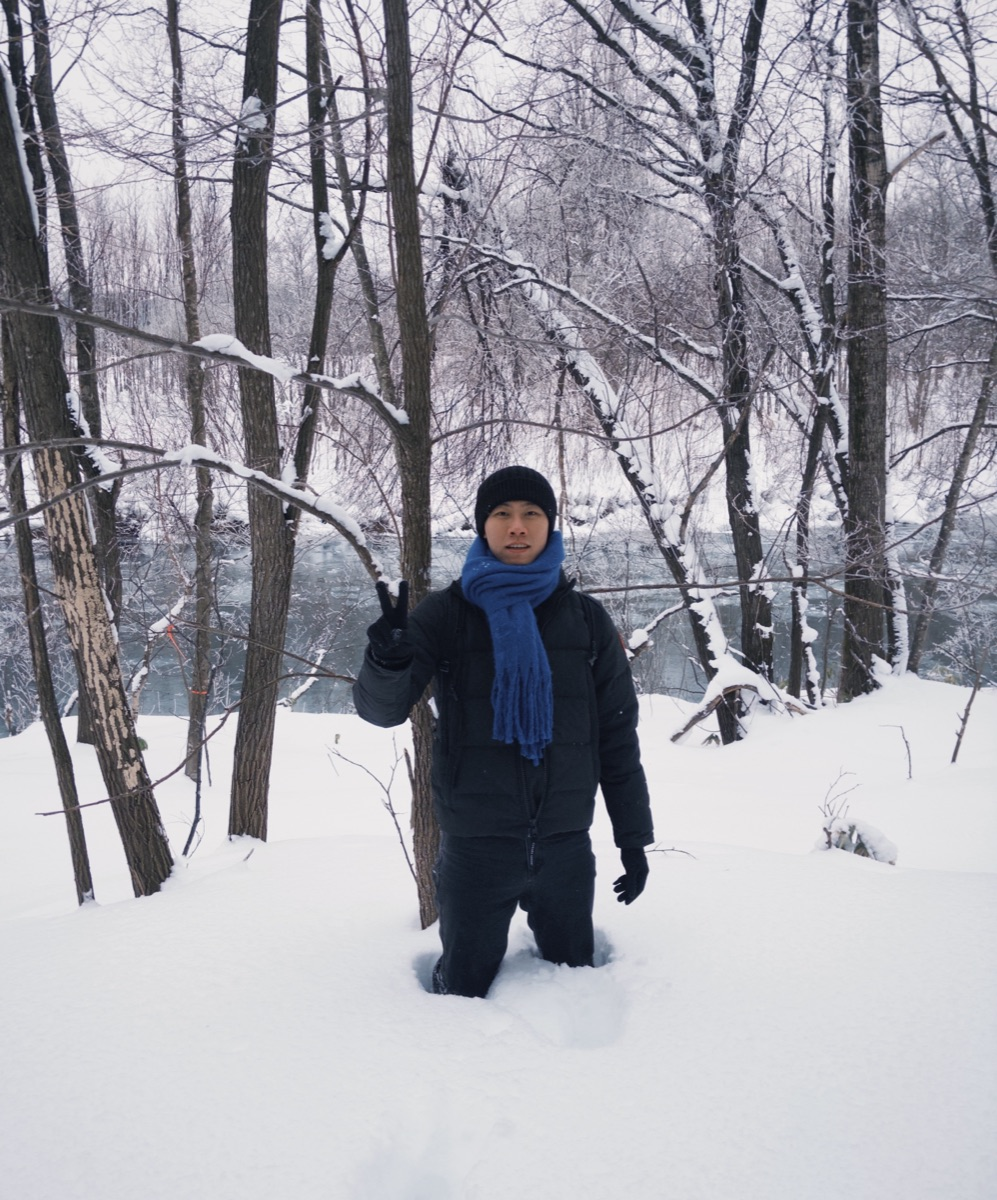
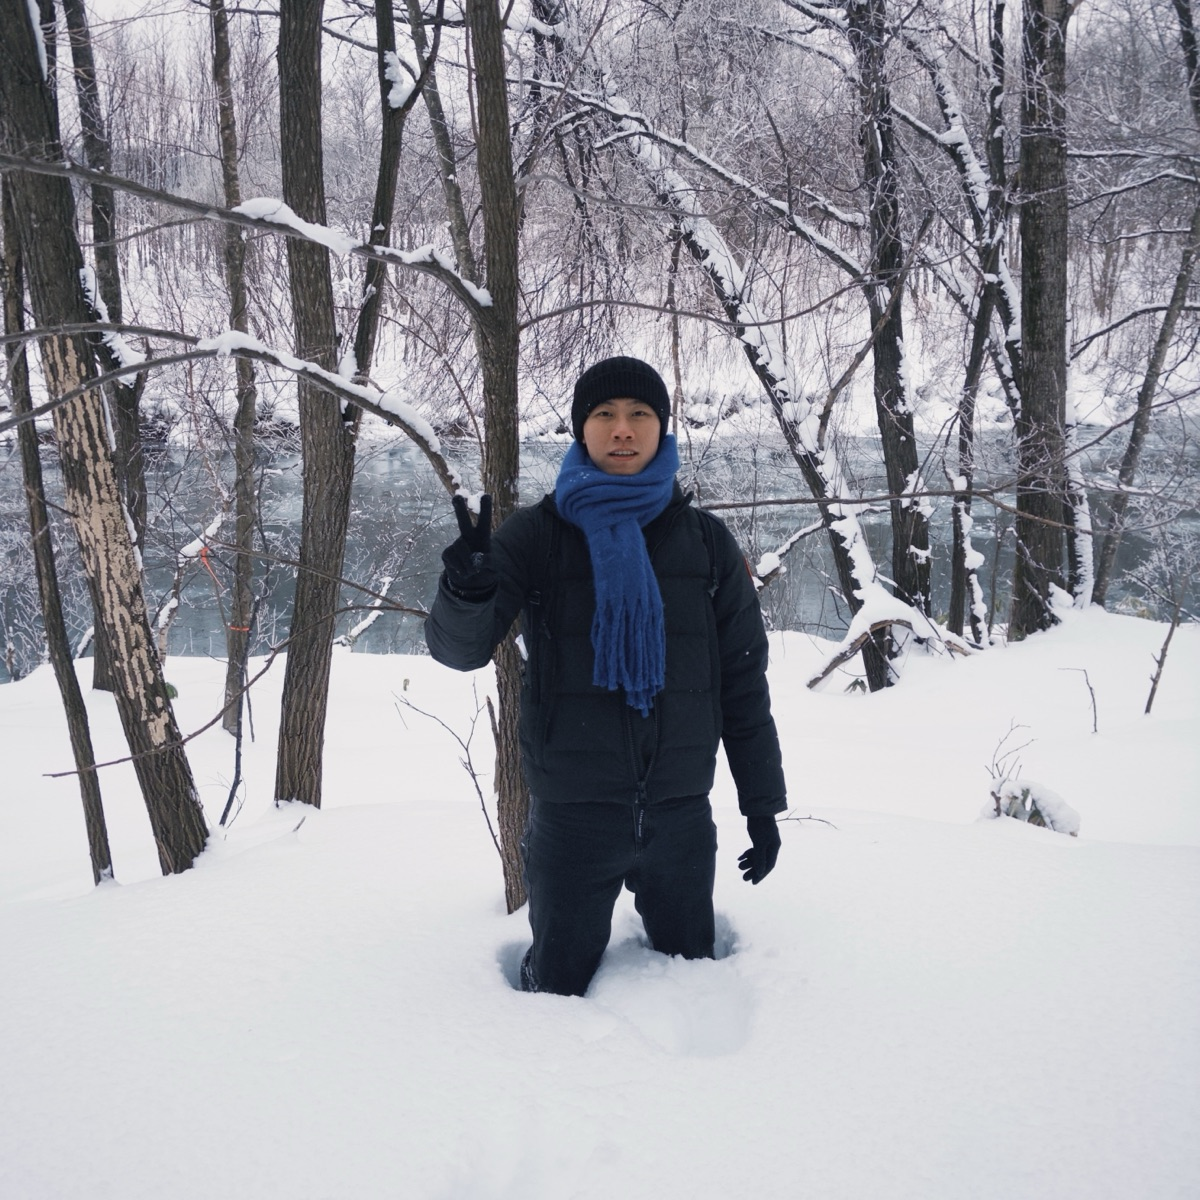
redesign: switch to Jekyll academic homepage template

diff --git a/_includes/widgets/profile_card.html b/_includes/widgets/profile_card.html
@@ -6,25 +6,26 @@
                     <div class="col">
                         {% if site.data.profile.portrait_url %}
                         <!-- When the screen is wider than md, float the portrait on the right -->
-                        <div class="figure float-right ml-4 mb-4 d-none d-md-block">
-                            <img 
-                                src="{{ site.data.profile.portrait_url | relative_url }}" 
-                                class="figure-img img-fluid img-thumbnail" 
-                                style="height: 200px;"
-                                data-toggle="tooltip" 
-                                data-placement="top" 
+                        <div class="figure float-right ml-4 mb-4 d-none d-md-block"
+                            style="width: 220px; overflow: hidden;">
+                            <img src="{{ site.data.profile.portrait_url | relative_url }}"
+                                class="figure-img img-thumbnail"
+                                style="width: 100%; height: 100%; object-fit: cover; object-position: center 20%;"
+                                data-toggle="tooltip" data-placement="top"
                                 title="{{ site.data.profile.portrait_caption }}">
                         </div>
                         {% endif %}
 
                         <div class="d-flex">
-                            <div class="h1 font-weight-normal">
-                                {{ site.data.profile.primary_name }} <small>{{ site.data.profile.secondary_name }}</small>
+                            <div class="h3 font-weight-normal">
+                                {{ site.data.profile.primary_name }} <small>{{ site.data.profile.secondary_name
+                                    }}</small>
                             </div>
                             {% if site.data.profile.portrait_url %}
                             <div class="ml-auto d-md-none">
                                 <a target="_blank" href="{{ site.data.profile.portrait_url | relative_url }}">
-                                    <img src="{{ site.data.profile.portrait_url | relative_url }}" class="rounded-circle" style="height: 48px;" alt="Portrait">
+                                    <img src="{{ site.data.profile.portrait_url | relative_url }}"
+                                        class="rounded-circle" style="height: 48px;" alt="Portrait">
                                 </a>
                             </div>
                             {% endif %}
@@ -32,40 +33,45 @@
                         <div class="text-profile-position">
                             {% for position in site.data.profile.positions %}
                             {% if position.logo -%}
-                            <img src="{{ position.logo | relative_url }}" alt="Logo" class="inline-badge"/>
+                            <img src="{{ position.logo | relative_url }}" alt="Logo" class="inline-badge" />
                             {%- endif %}
-                            {{ position.name }}<br/>
+                            {{ position.name }}<br />
                             {% endfor %}
                         </div>
-                        <div class="text-profile-bio mt-3" {% if site.data.profile.short_bio_text_justify %}style="text-align: justify;"{% endif %}>
+                        <div class="text-profile-bio mt-3" {% if site.data.profile.short_bio_text_justify
+                            %}style="text-align: justify;" {% endif %}>
                             {{ site.data.profile.short_bio }}
                         </div>
                         {% if site.data.profile.cv_link %}
-                            <a target="_blank" href="{{ site.data.profile.cv_link | relative_url }}"><i class="fas fa-file-alt"></i> Curriculum Vitae</a> <br/>
+                        <a target="_blank" href="{{ site.data.profile.cv_link | relative_url }}"><i
+                                class="fas fa-file-alt"></i> Curriculum Vitae</a> <br />
                         {% endif %}
                     </div>
-        
+
                 </div>
                 <hr />
                 <div class="row">
                     <div class="col">
                         <a class="pr-3" href="mailto:{{ site.data.profile.email | encode_email }}">
-                            <i class="fas fa-at"></i> <span class="email-text">{{ site.data.profile.email | replace: "@", "(at)" }}</span>
+                            <i class="fas fa-at"></i> <span class="email-text">{{ site.data.profile.email | replace:
+                                "@", "(at)" }}</span>
                         </a>
 
                         {% if site.data.profile.gscholar %}
                         {%- if site.data.profile.gscholar contains 'scholar.google' -%}
                         {%- assign gscholar_url = site.data.profile.gscholar -%}
                         {%- else -%}
-                        {%- assign gscholar_url = 'https://scholar.google.com/citations?user=' | append: site.data.profile.gscholar -%}
+                        {%- assign gscholar_url = 'https://scholar.google.com/citations?user=' | append:
+                        site.data.profile.gscholar -%}
                         {%- endif -%}
                         <a class="pr-3 no-break" target="_blank" href="{{ gscholar_url }}">
                             <i class="fab fa-google-scholar"></i> Google Scholar
                         </a>
                         {% endif %}
-                        
+
                         {% if site.data.profile.github %}
-                        <a class="pr-3 no-break" target="_blank" href="https://github.com/{{ site.data.profile.github }}">
+                        <a class="pr-3 no-break" target="_blank"
+                            href="https://github.com/{{ site.data.profile.github }}">
                             <i class="fab fa-github"></i> GitHub
                         </a>
                         {% endif %}
@@ -77,13 +83,15 @@
                         {% endif %}
 
                         {% if site.data.profile.twitter %}
-                        <a class="pr-3 no-break" target="_blank" href="https://twitter.com/{{ site.data.profile.twitter }}">
+                        <a class="pr-3 no-break" target="_blank"
+                            href="https://twitter.com/{{ site.data.profile.twitter }}">
                             <i class="fab fa-twitter"></i> Twitter
                         </a>
                         {% endif %}
 
                         {% if site.data.profile.linkedin %}
-                        <a class="pr-3 no-break" target="_blank" href="https://www.linkedin.com/in/{{ site.data.profile.linkedin }}">
+                        <a class="pr-3 no-break" target="_blank"
+                            href="https://www.linkedin.com/in/{{ site.data.profile.linkedin }}">
                             <i class="fab fa-linkedin"></i> LinkedIn
                         </a>
                         {% endif %}
@@ -96,7 +104,7 @@
                     </div>
                 </div>
             </div>
-        </div>        
+        </div>
     </div>
 </div>
 

diff --git a/index.html b/index.html
@@ -3,37 +3,6 @@ layout: default
 title : Homepage
 navbar_title: Home
 ---
-
-<div class="row">
-    <div class="col-lg-3 col-md-4">
-        {% include widgets/profile_card_mini.html %}
-    </div>
-    <div class="col-lg-9 col-md-8">
-
-        {% include widgets/profile_card_bio_only.html %}
-
-        <!-- Debugging widgets -->
-        {% include widgets/debug_repo_name.html %}
-        {% include widgets/debug_url.html %}
-
-        {% if site.data.display.homepage.show_experience %}
-            {% include widgets/experience_card.html %}
-        {% endif %}
-
-        {% if site.data.display.homepage.show_news %}
-        {% assign count_news = site.news | size %}
-        {% if count_news > 0 %}
-        {% include widgets/news_card.html limit=site.data.display.homepage.num_news %}
-        {% endif %}
-        {% endif %}
-
-        {% if site.data.display.homepage.show_selected_publications %}
-        {% assign pubs = site.publications | sort: "date" | reverse | where: "selected", true %}
-        {%
-        include widgets/publication_card.html
-        publications=pubs
-        title='<i class="fas fa-star"></i> Selected Publications'
-        %}
-        {% endif %}
-    </div>
-</div>
+{% include widgets/profile_card.html %}
+{% include widgets/custom_work_card.html %}
+{% include widgets/custom_education_card.html %}

diff --git a/_includes/widgets/custom_education_card.html b/_includes/widgets/custom_education_card.html
@@ -1,0 +1,28 @@
+<div class="row mt-3">
+    <div class="col">
+        <div class="card border-0 shadow-sm bg-white">
+            <div class="card-body p-4">
+                <h6>Study Journey</h6>
+                {% for item in site.data.education %}
+                <div class="d-flex align-items-start {% unless forloop.last %}border-bottom border-gray{% endunless %} py-3">
+                    <img
+                        src="{{ item.logo | relative_url }}"
+                        alt="{{ item.name }}"
+                        style="width: 48px; height: 48px; object-fit: contain; flex-shrink: 0;"
+                        class="mr-3 mt-1">
+                    <div style="flex: 1; min-width: 0;">
+                        <div class="d-flex justify-content-between align-items-baseline">
+                            <strong>{{ item.name }}</strong>
+                            <span class="text-muted small no-break ml-3"><em>{{ item.date }}</em></span>
+                        </div>
+                        <div class="small text-muted">{{ item.position }}</div>
+                        {% if item.description %}
+                        <div class="small mt-1">{{ item.description }}</div>
+                        {% endif %}
+                    </div>
+                </div>
+                {% endfor %}
+            </div>
+        </div>
+    </div>
+</div>

diff --git a/_includes/widgets/custom_work_card.html b/_includes/widgets/custom_work_card.html
@@ -1,0 +1,28 @@
+<div class="row mt-3">
+    <div class="col">
+        <div class="card border-0 shadow-sm bg-white">
+            <div class="card-body p-4">
+                <h6>Work</h6>
+                {% for item in site.data.work %}
+                <div class="d-flex align-items-start {% unless forloop.last %}border-bottom border-gray{% endunless %} py-3">
+                    <img
+                        src="{{ item.logo | relative_url }}"
+                        alt="{{ item.name }}"
+                        style="width: 48px; height: 48px; object-fit: contain; flex-shrink: 0;"
+                        class="mr-3 mt-1">
+                    <div style="flex: 1; min-width: 0;">
+                        <div class="d-flex justify-content-between align-items-baseline">
+                            <strong>{{ item.name }}</strong>
+                            <span class="text-muted small no-break ml-3"><em>{{ item.date }}</em></span>
+                        </div>
+                        <div class="small text-muted">{{ item.position }}</div>
+                        {% if item.description %}
+                        <div class="small mt-1">{{ item.description }}</div>
+                        {% endif %}
+                    </div>
+                </div>
+                {% endfor %}
+            </div>
+        </div>
+    </div>
+</div>

diff --git a/_includes/widgets/profile_card_mini.html b/_includes/widgets/profile_card_mini.html
@@ -6,13 +6,14 @@
                     <div class="col">
                         {% if site.data.profile.portrait_url %}
                         <!-- When the screen is wider than md, float the portrait on the right -->
-                        <div class="figure d-none d-md-block">
-                            <img 
-                                src="{{ site.data.profile.portrait_url | relative_url }}" 
-                                class="figure-img img-fluid" 
-                                data-toggle="tooltip" 
-                                data-placement="top" 
-                                title="{{ site.data.profile.portrait_caption }}">
+                        <div class="figure d-none d-md-block" style="overflow:hidden; aspect-ratio:3/4;">
+                            <img
+                                src="{{ site.data.profile.portrait_url | relative_url }}"
+                                class="figure-img img-fluid"
+                                data-toggle="tooltip"
+                                data-placement="top"
+                                title="{{ site.data.profile.portrait_caption }}"
+                                style="width:100%; height:100%; object-fit:cover; object-position:center 25%;">
                         </div>
                         <div class="mb-3 d-md-none text-center">
                             <img src="{{ site.data.profile.portrait_url | relative_url }}" class="rounded-circle" style="max-width: 50%;" alt="Portrait">

diff --git a/_layouts/default.html b/_layouts/default.html
@@ -10,9 +10,22 @@
     <link rel="stylesheet" href="https://cdnjs.cloudflare.com/ajax/libs/twitter-bootstrap/4.6.0/css/bootstrap.min.css" integrity="sha512-P5MgMn1jBN01asBgU0z60Qk4QxiXo86+wlFahKrsQf37c9cro517WzVSPPV1tDKzhku2iJ2FVgL67wG03SGnNA==" crossorigin="anonymous" />
     <link rel="stylesheet" href="https://cdnjs.cloudflare.com/ajax/libs/font-awesome/6.5.1/css/all.min.css" integrity="sha512-DTOQO9RWCH3ppGqcWaEA1BIZOC6xxalwEsw9c2QQeAIftl+Vegovlnee1c9QX4TctnWMn13TZye+giMm8e2LwA==" crossorigin="anonymous">
     <link rel="stylesheet" href="https://cdnjs.cloudflare.com/ajax/libs/academicons/1.9.1/css/academicons.min.css" integrity="sha512-b1ASx0WHgVFL5ZQhTgiPWX+68KjS38Jk87jg7pe+qC7q9YkEtFq0z7xCglv7qGIs/68d3mAp+StfC8WKC5SSAg==" crossorigin="anonymous" />
+    <link rel="preconnect" href="https://cdn.jsdelivr.net">
     <link rel="preconnect" href="https://fonts.googleapis.com">
     <link rel="preconnect" href="https://fonts.gstatic.com" crossorigin>
     <link href="https://fonts.googleapis.com/css2?family=Lato:ital,wght@0,300;0,400;0,700;0,900;1,300;1,400;1,700;1,900&family=Fira+Sans:ital,wght@0,100;0,200;0,300;0,400;0,500;0,600;0,700;0,800;0,900;1,100;1,200;1,300;1,400;1,500;1,600;1,700;1,800;1,900&family=Source+Code+Pro:ital,wght@0,200..900;1,200..900&display=swap" rel="stylesheet">
+    <style>
+      @font-face {
+        font-family: 'Geist Mono';
+        src: url('https://cdn.jsdelivr.net/npm/geist@1.0.0/dist/fonts/geist-mono/GeistMono-Regular.woff2') format('woff2');
+        font-weight: 400;
+      }
+      @font-face {
+        font-family: 'Geist Mono';
+        src: url('https://cdn.jsdelivr.net/npm/geist@1.0.0/dist/fonts/geist-mono/GeistMono-SemiBold.woff2') format('woff2');
+        font-weight: 700;
+      }
+    </style>
     <link rel="stylesheet" href="https://cdn.jsdelivr.net/npm/katex@0.16.11/dist/katex.min.css" integrity="sha384-nB0miv6/jRmo5UMMR1wu3Gz6NLsoTkbqJghGIsx//Rlm+ZU03BU6SQNC66uf4l5+" crossorigin="anonymous">
     <link rel="stylesheet" href="{{ '/assets/css/global.css' | relative_url }}">
 </head>

diff --git a/assets/css/global.css b/assets/css/global.css
@@ -1,8 +1,9 @@
 @charset "utf-8";
 body {
-    font-family: "Lato", sans-serif;
+    font-family: 'Geist Mono', 'Courier New', monospace;
     font-weight: 400;
     padding-top: 5.0rem;
+    font-size: 0.85rem;
 }
 
 h1, h2, h3, h4, h5, h6,

diff --git a/_publications/2025/2025-hku-ra.md b/_publications/2025/2025-hku-ra.md
@@ -1,0 +1,12 @@
+---
+title: "Research Assistant @ University of Hong Kong"
+date: 2025-05-01 00:00:00 +0800
+selected: true
+pub: "University of Hong Kong"
+pub_date: "May 2025 - present"
+abstract: >-
+  Part-time research assistant at HKU.
+cover: /assets/images/badges/hku.png
+links:
+  Website: https://www.hku.hk
+---

diff --git a/_publications/2025/2025-maicrotrader.md b/_publications/2025/2025-maicrotrader.md
@@ -1,0 +1,12 @@
+---
+title: "Developer @ Maicrotrader"
+date: 2025-12-01 00:00:00 +0800
+selected: true
+pub: "Maicrotrader"
+pub_date: "Dec 2025 - present"
+abstract: >-
+  Developer at Maicrotrader.
+cover: /assets/images/badges/MT_LOGOMARK_BLUE_.svg
+links:
+  Website: https://maicrotrader.com
+---

diff --git a/_news/2025-hku-ra.md b/_news/2025-hku-ra.md
@@ -1,0 +1,5 @@
+---
+title: >-
+    Started as Research Assistant at the University of Hong Kong.
+date: 2025-05-01 00:00:00 +0800
+---

diff --git a/_news/2025-maicrotrader.md b/_news/2025-maicrotrader.md
@@ -1,0 +1,5 @@
+---
+title: >-
+    Joined Maicrotrader as a Developer.
+date: 2025-12-01 00:00:00 +0800
+---